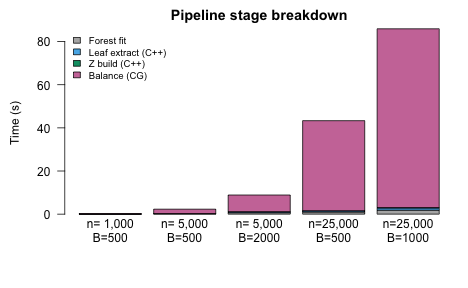
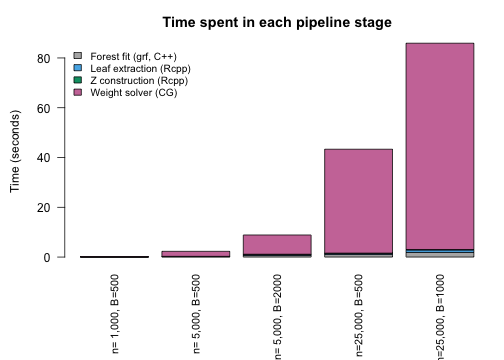
vignette

Changed region(s): [[0.0, 0.0938, 0.9573, 1.0], [0.3291, 0.0312, 0.7778, 0.0938]]

diff --git a/docs/articles/performance.html b/docs/articles/performance.html
@@ -540,7 +540,8 @@ individually to show where time is spent at different scales:</p>
 <span>  <span class="op">}</span></span>
 <span><span class="op">)</span><span class="op">)</span></span></code></pre></div>
 <table class="table">
-<caption>Time per pipeline stage (CG solver, single fold).</caption>
+<caption>Wall-clock time for each pipeline stage across configurations
+(CG solver, single fold).</caption>
 <colgroup>
 <col width="7%">
 <col width="7%">
@@ -615,7 +616,7 @@ individually to show where time is spent at different scales:</p>
 </tbody>
 </table>
 <div class="float">
-<img src="performance-breakdown-plot-1.png" alt="plot of chunk breakdown-plot"><div class="figcaption">plot of chunk breakdown-plot</div>
+<img src="performance-breakdown-plot-1.png" alt="Computation breakdown plot"><div class="figcaption">Computation breakdown plot</div>
 </div>
 <p>At small
 <math display="inline" xmlns="http://www.w3.org/1998/Math/MathML"><semantics><mi>n</mi><annotation encoding="application/x-tex">n</annotation></semantics></math>,

diff --git a/docs/articles/performance.md b/docs/articles/performance.md
@@ -283,11 +283,12 @@ breakdown <- do.call(rbind, lapply(
 | 25000 | 500 | 135 | 1.01 | 0.51 | 0.073 | 41.74 | 43.33 |
 | 25000 | 1000 | 135 | 1.87 | 1.00 | 0.180 | 82.89 | 85.93 |
 
-Time per pipeline stage (CG solver, single fold).
+Wall-clock time for each pipeline stage across configurations (CG
+solver, single fold).
 
-![plot of chunk breakdown-plot](performance-breakdown-plot-1.png)
+![Computation breakdown plot](performance-breakdown-plot-1.png)
 
-plot of chunk breakdown-plot
+Computation breakdown plot
 
 At small $`n`$, forest fitting and the balance solver take similar time.
 At large $`n`$, the CG solver dominates — its cost grows with the number
